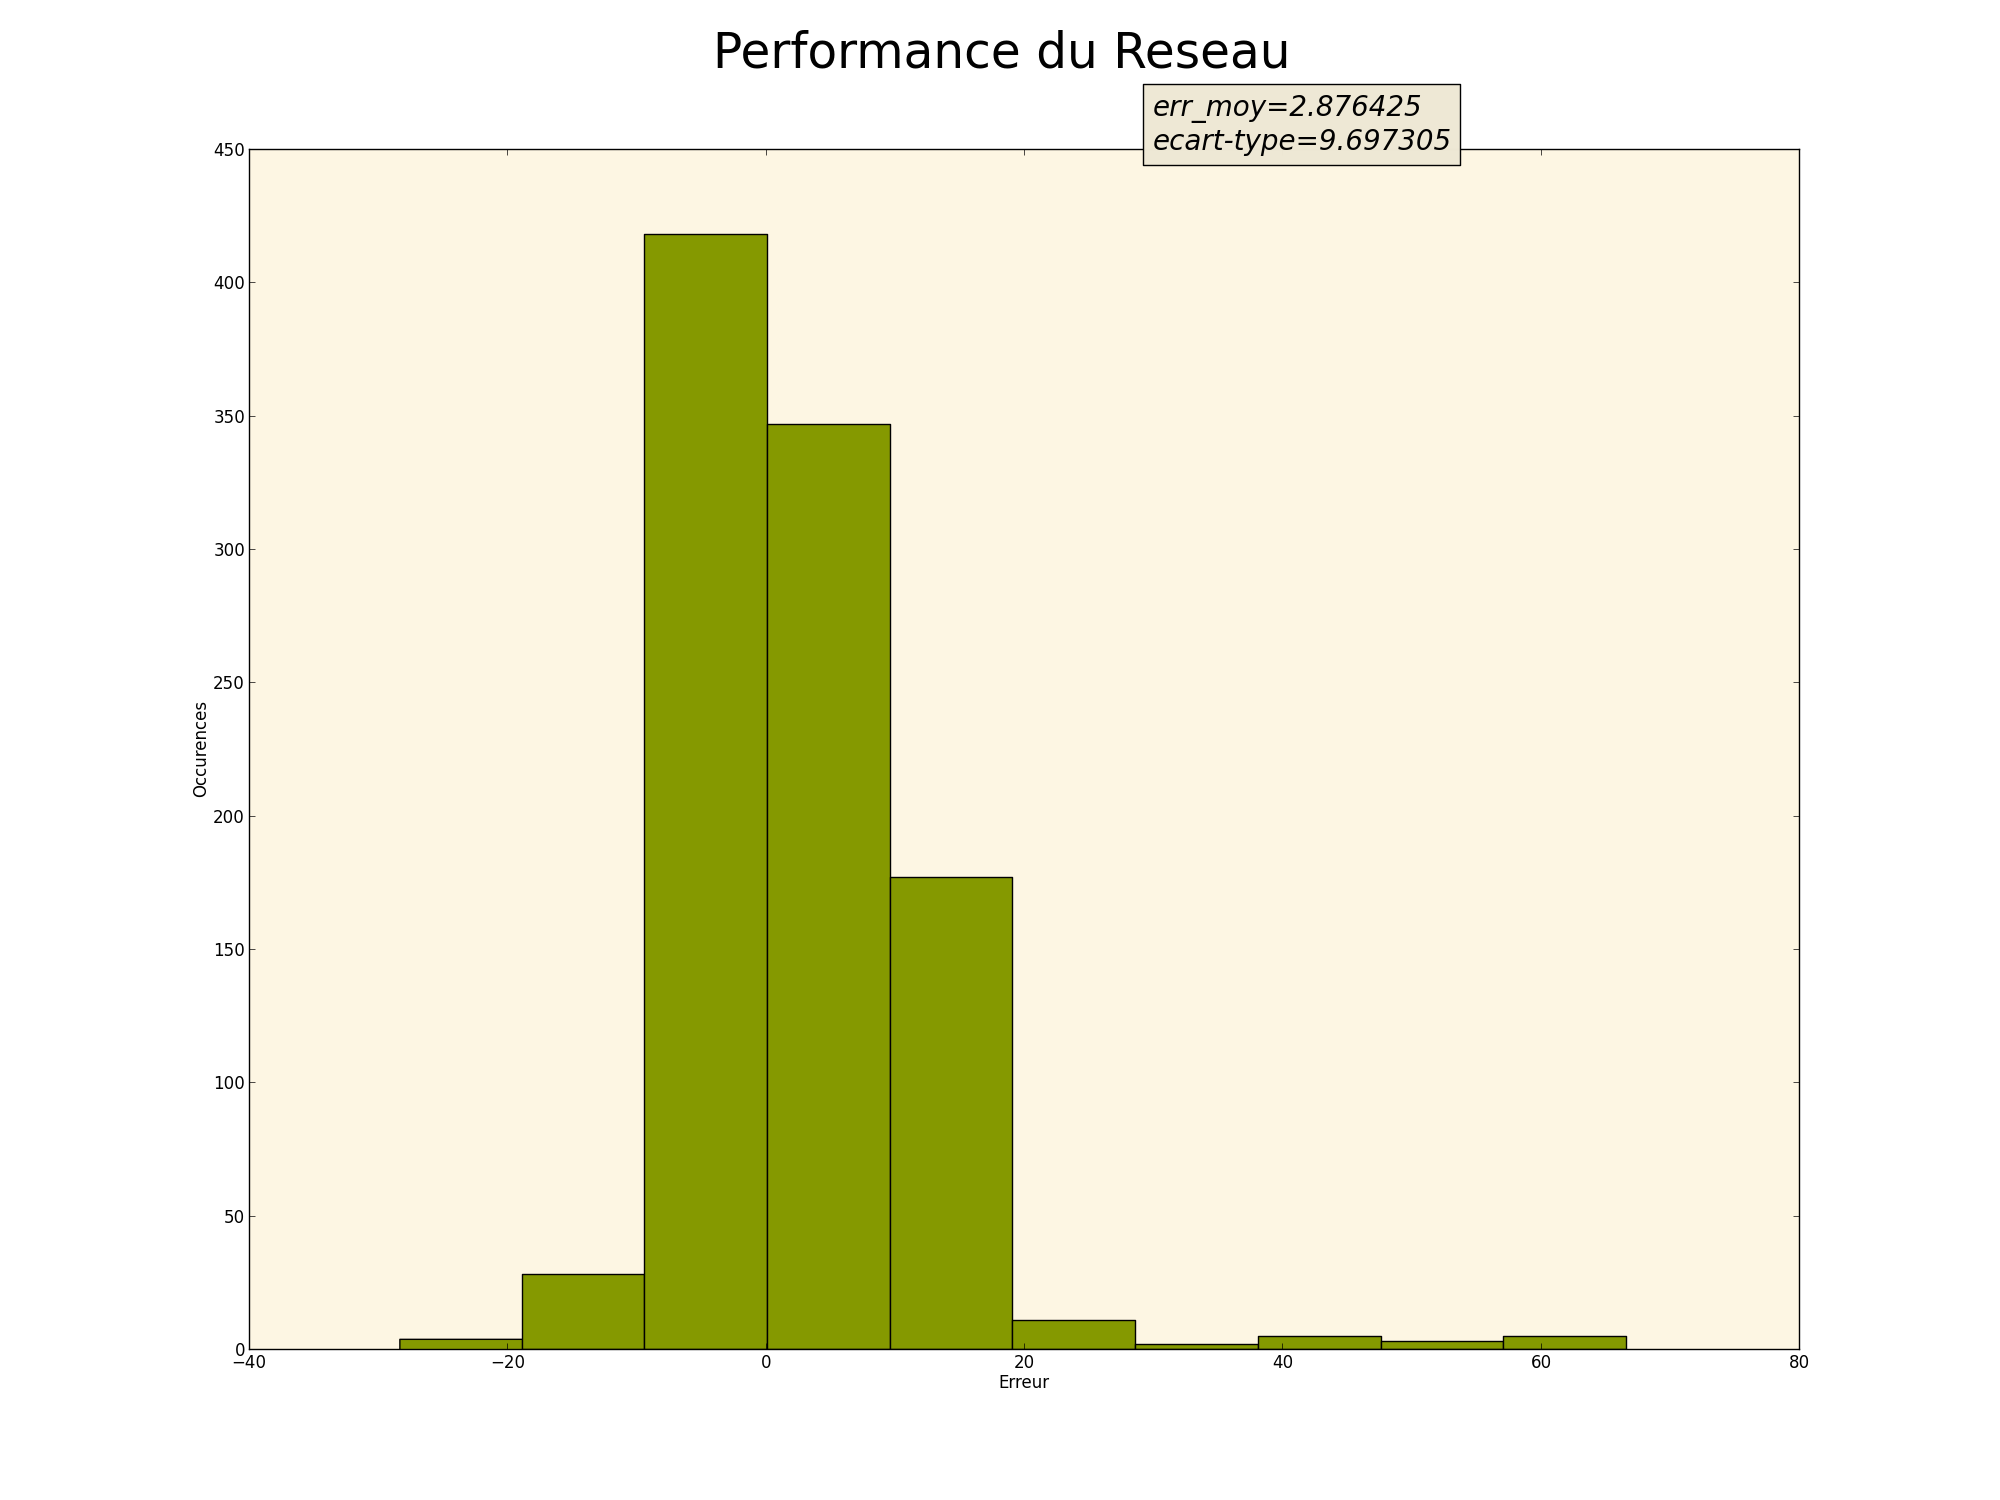
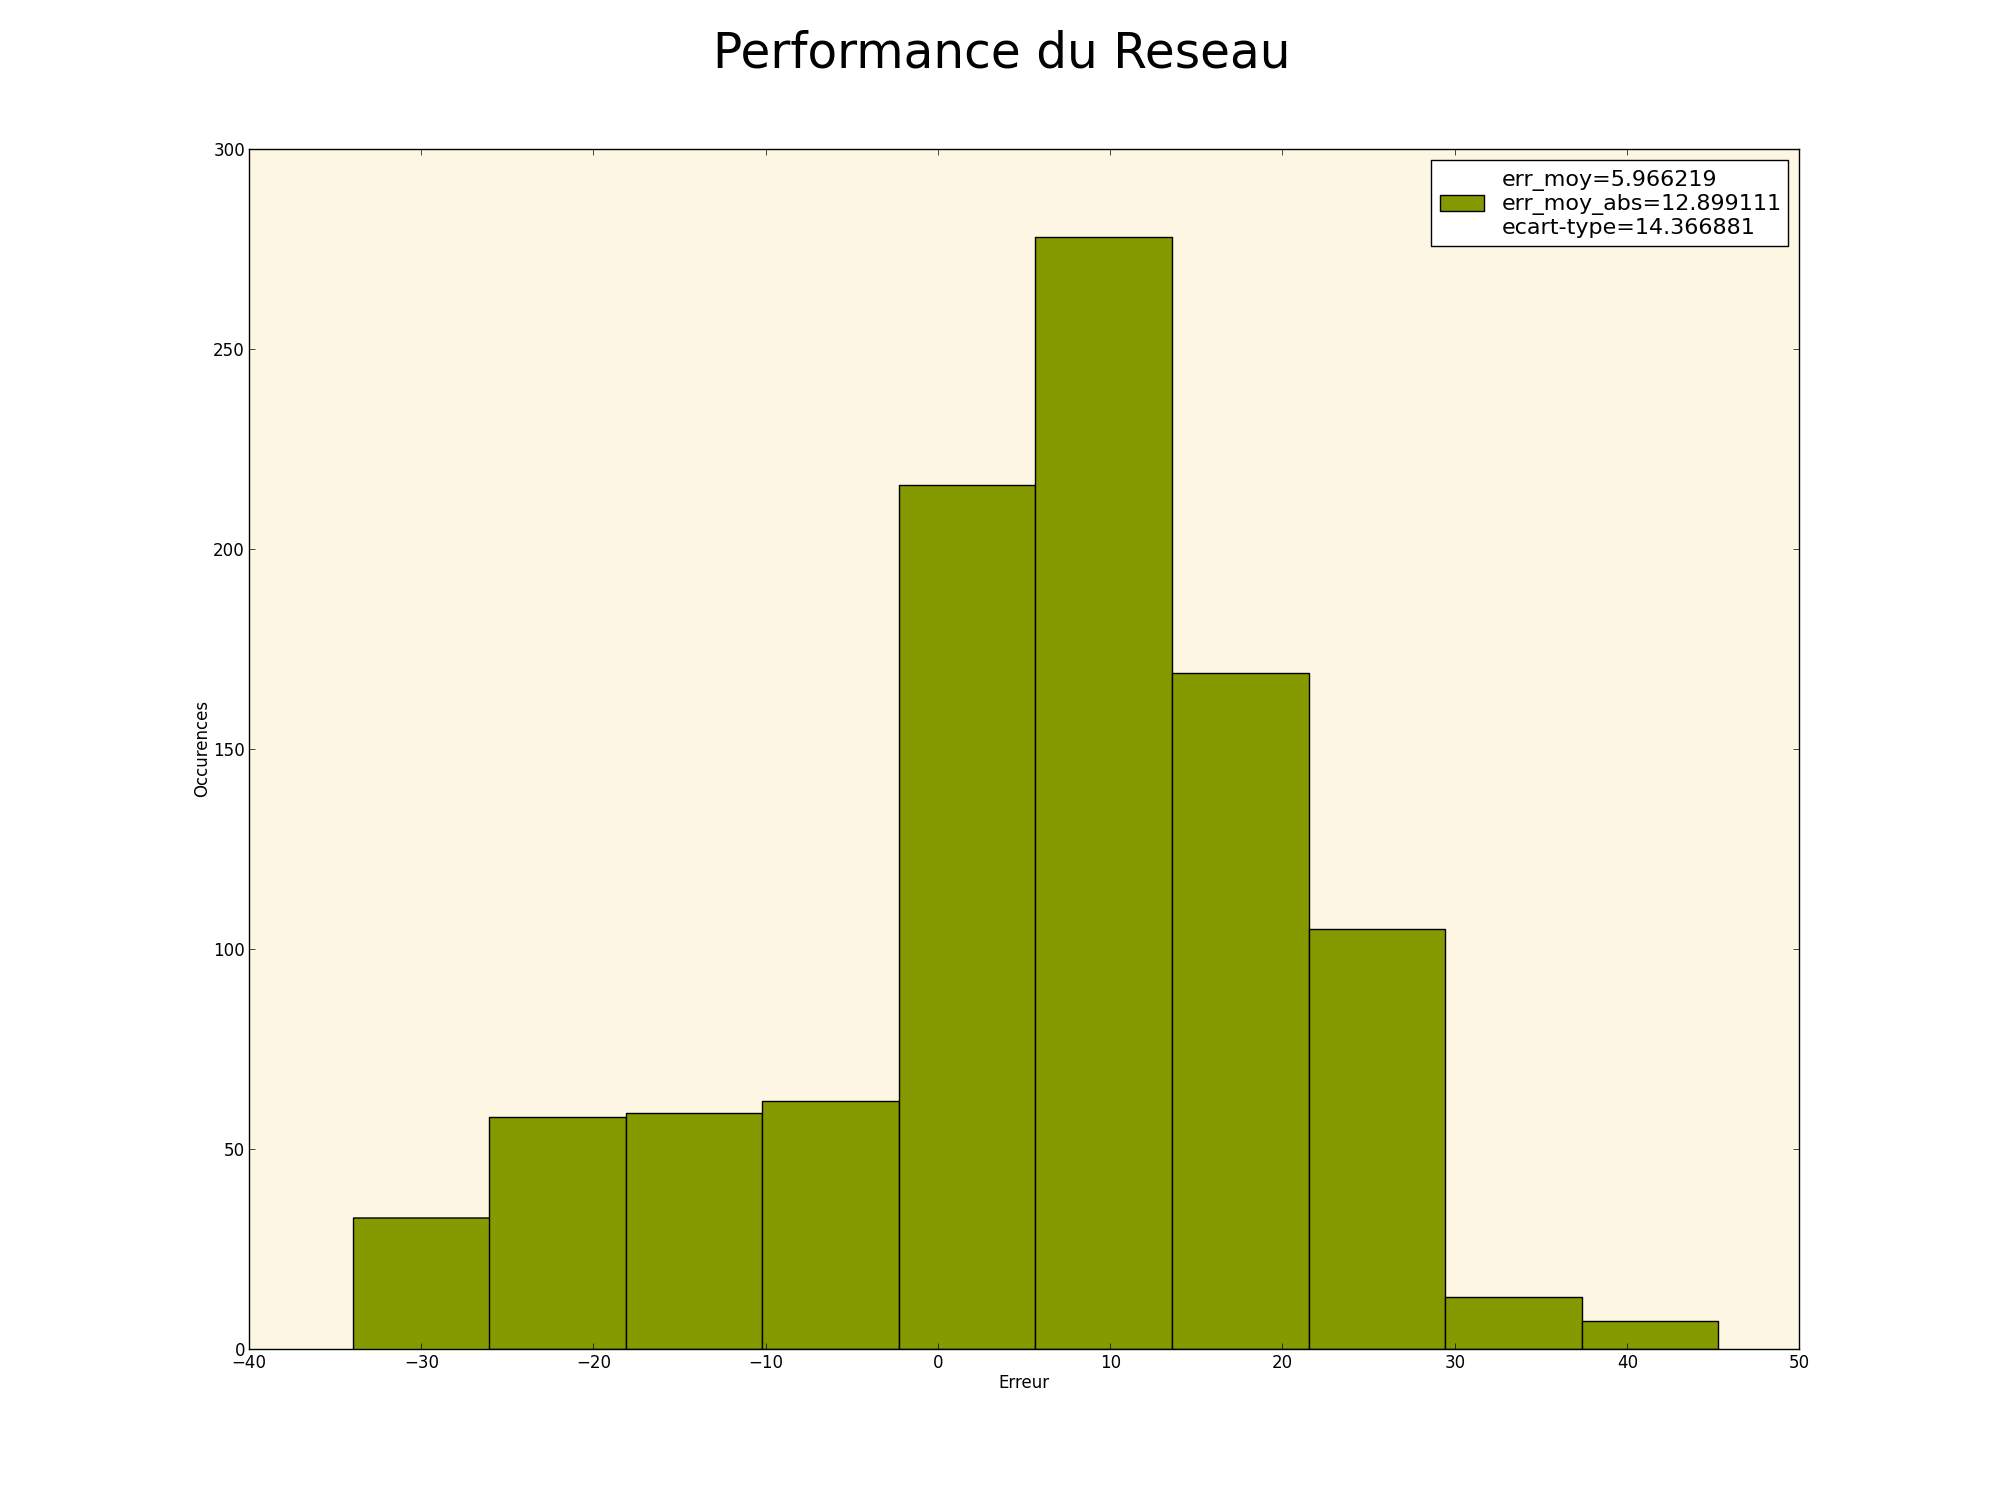
MMCN Projet Final

Changed region(s): [[0.155, 0.1533, 0.868, 0.92], [0.558, 0.0307, 0.899, 0.184], [0.093, 0.4907, 0.124, 0.552]]

diff --git a/MMCN/Projet/online_ml/testcase.py b/MMCN/Projet/online_ml/testcase.py
@@ -3,6 +3,7 @@
 
 from   ANN               import *
 import matplotlib.pyplot as     plt
+from operator import itemgetter
 
 '''
 print 'test a_unif: ', np.array(map(a_unif,np.arange(41),np.ones(41)*41))
@@ -109,7 +110,7 @@ def tuningCurves(fname=None):
     plt.close(fig)
 
 # 3. Représenter graphiquement la sortie du réseau
-def graph_sorti(ann,fname=None):
+def graph_sorti(ann,minErrs,fname=None):
     fig = plt.figure(figsize=(20, 15))
     plt.suptitle('Sortie du Reseau', fontsize=35)
     plt.subplot(311,axisbg="#fdf6e3")
@@ -150,17 +151,17 @@ def graph_sorti(ann,fname=None):
 
 # 4. Estimer la performance du réseau
 def performance(err_list,fname=None):
-    moy = np.mean(elist)
-    std = np.std(elist)
+    moy   = np.mean(err_list)
+    moyAbs= np.mean(abs(err_list))
+    std   = np.std(err_list)
     print "Erreur Moyenne : ", moy
+    print "Erreur Moyenne Abs: ", moyAbs
     print "L'écart-type de l'erreur : ", std
     fig = plt.figure(figsize=(20, 15))
     ax = fig.add_subplot(111,axisbg="#fdf6e3")
     plt.suptitle('Performance du Reseau', fontsize=35)
-    # plt.subplot(111,axisbg="#fdf6e3")
     plt.hist(err_list.tolist(),color="#859900")
-    ax.text(30,450,"err_moy=%f\necart-type=%f"%(moy,std), style='italic',fontsize=20,
-            bbox={'facecolor':'#eee8d5', 'alpha':2, 'pad':15})
+    plt.legend(["err_moy=%f\nerr_moy_abs=%f\necart-type=%f"%(moy,moyAbs,std)],prop={'size':16})
     plt.ylabel("Occurences")
     plt.xlabel("Erreur")
     if fname==None:
@@ -168,35 +169,34 @@ def performance(err_list,fname=None):
     else:
         plt.savefig(fname)
     plt.close(fig)
-    return moy,std
+    return moy,moyAbs,std
 
 tuningCurves("TuningCurves.png")
 
 # training ANN et estimer les erreurs
 y_vrai = lambda x : x[0] + x[-1]
 erreur = lambda yv, ye : yv - ye
-annList = []
-moyList = []
-stdList = []
+annList    = []
+moyList    = []
+moyAbsList = []
+stdList    = []
 for i in range(10):
-    while True:
-        elist  = []
-        minErrs= []
-        ann = NeuroNetwork([[sigmoid,grad_sigmoid,64,21]],91,eta=0.01)
-        ann.fit(trainX,trainY)
-        for x in testX:
-            yv = y_vrai(x)
-            err= erreur(yv,ann.y_esti(x))
-            elist.append(err)
-        elist = np.array(elist)
-        minErrs = np.argwhere(np.abs(elist) < 0.02)
-        minErrs = minErrs.flatten().tolist()
-        print minErrs
-        if len(minErrs) >= 3 :
-            graph_sorti(ann,"LaSortieDuReseau[%d].png"%i)
-            moy, std = performance(elist,"LaPerformanceDuReseau[%d].png"%i)
-            moyList.append(moy)
-            stdList.append(std)
-            break
+    elist  = []
+    minErrs= []
+    ann = NeuroNetwork([[sigmoid,grad_sigmoid,64,21]],91,eta=0.01)
+    ann.fit(trainX,trainY)
+    for x in testX:
+        yv = y_vrai(x)
+        err= erreur(yv,ann.y_esti(x))
+        elist.append(err)
+    elist = np.array(elist)
+    minErrs = np.array(sorted(zip(np.arange(len(elist)),np.abs(elist)),key=itemgetter(1)))[:3,0]
+    graph_sorti(ann,minErrs,"LaSortieDuReseau[%d].png"%i)
+    moy,moyAbs,std = performance(elist,"LaPerformanceDuReseau[%d].png"%i)
+    moyList.append(moy)
+    moyAbsList.append(moyAbs)
+    stdList.append(std)
     
-np.savetxt("err_moy_std.txt",np.array(zip(moyList,stdList)))
+np.savetxt("err_moy_std.txt",np.array(zip(moyList,moyAbsList,stdList)))
+
+
